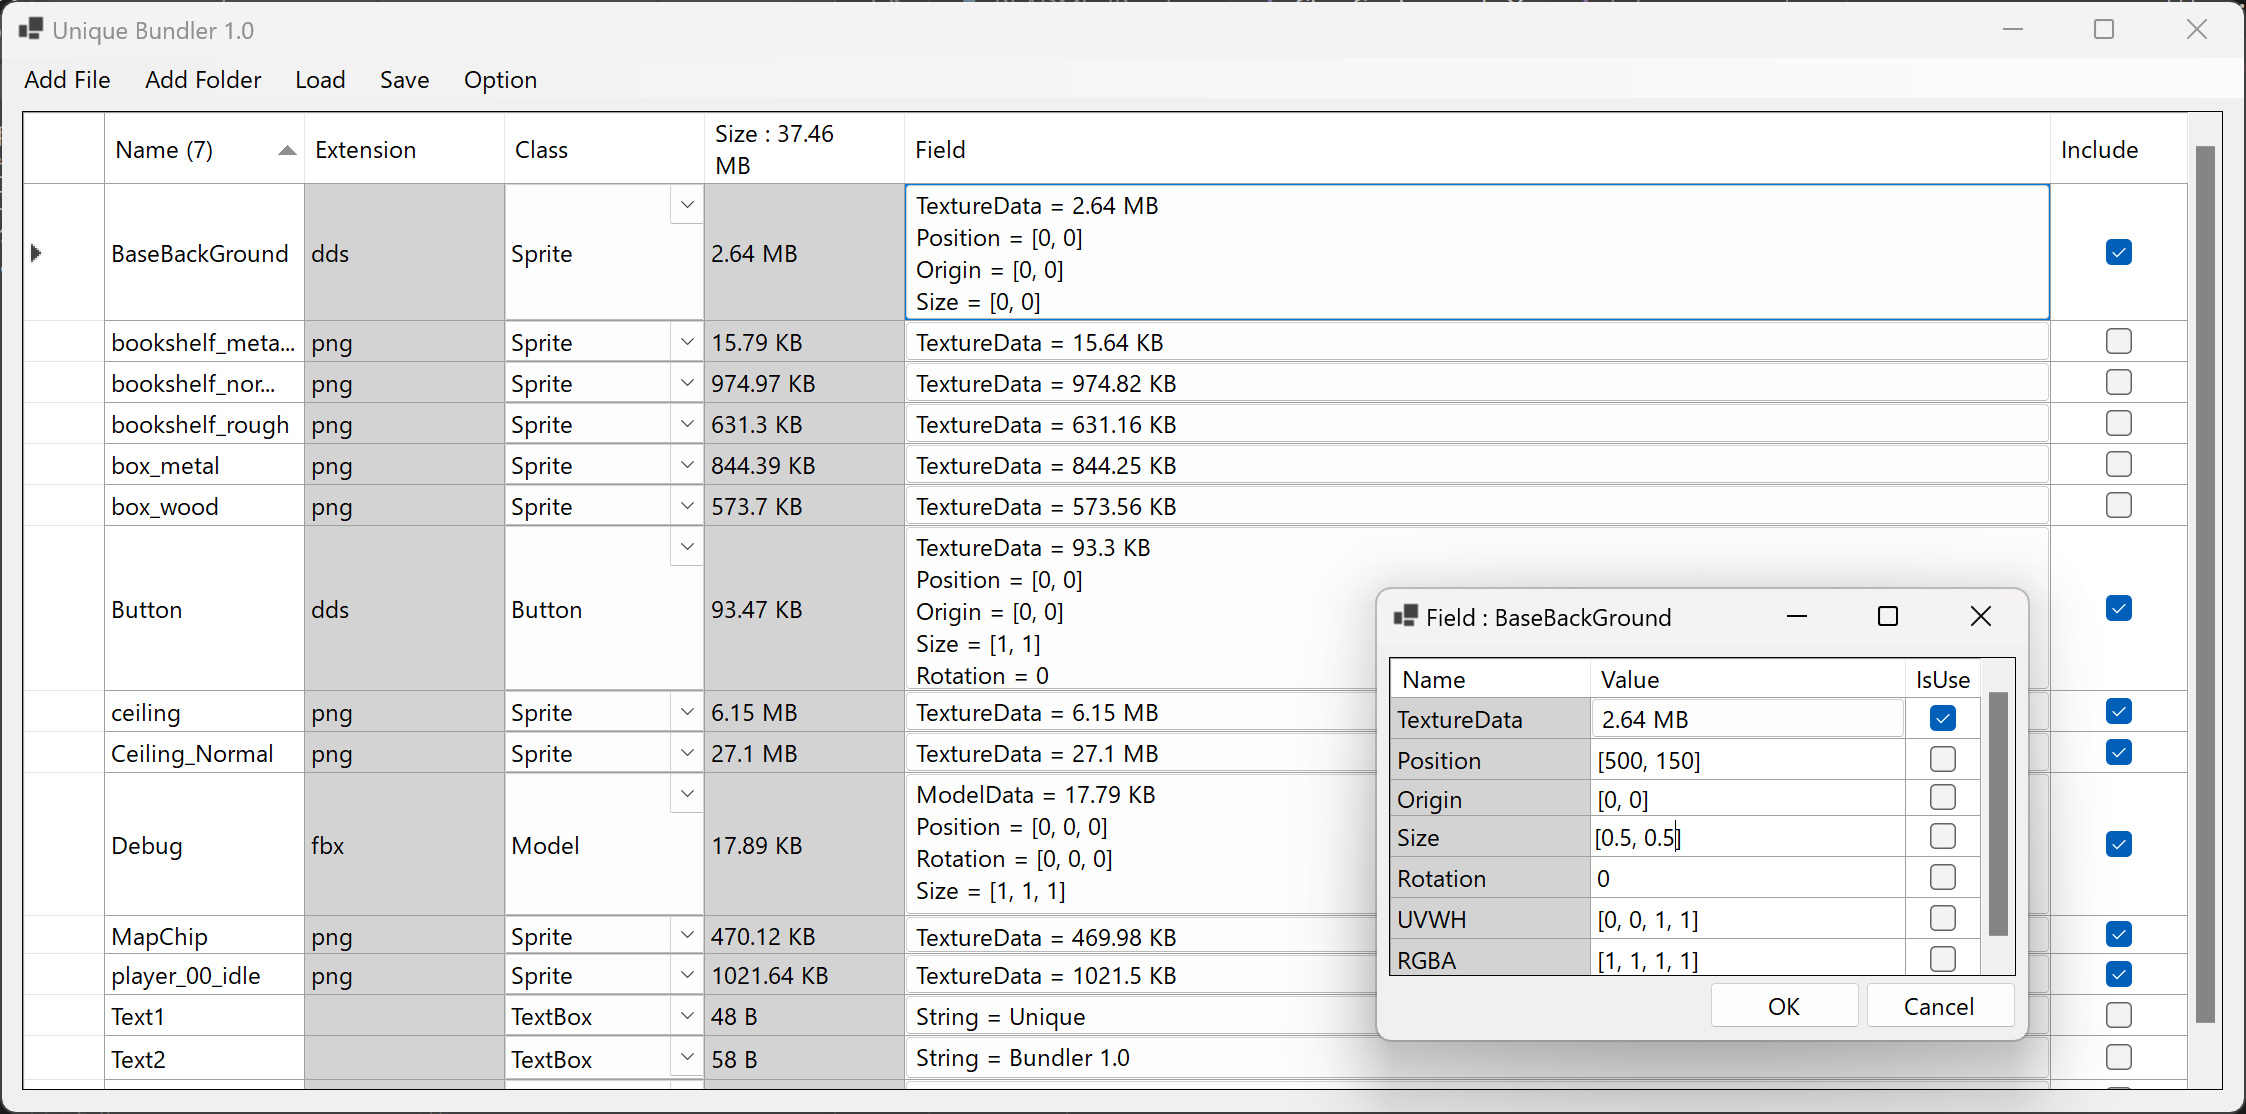
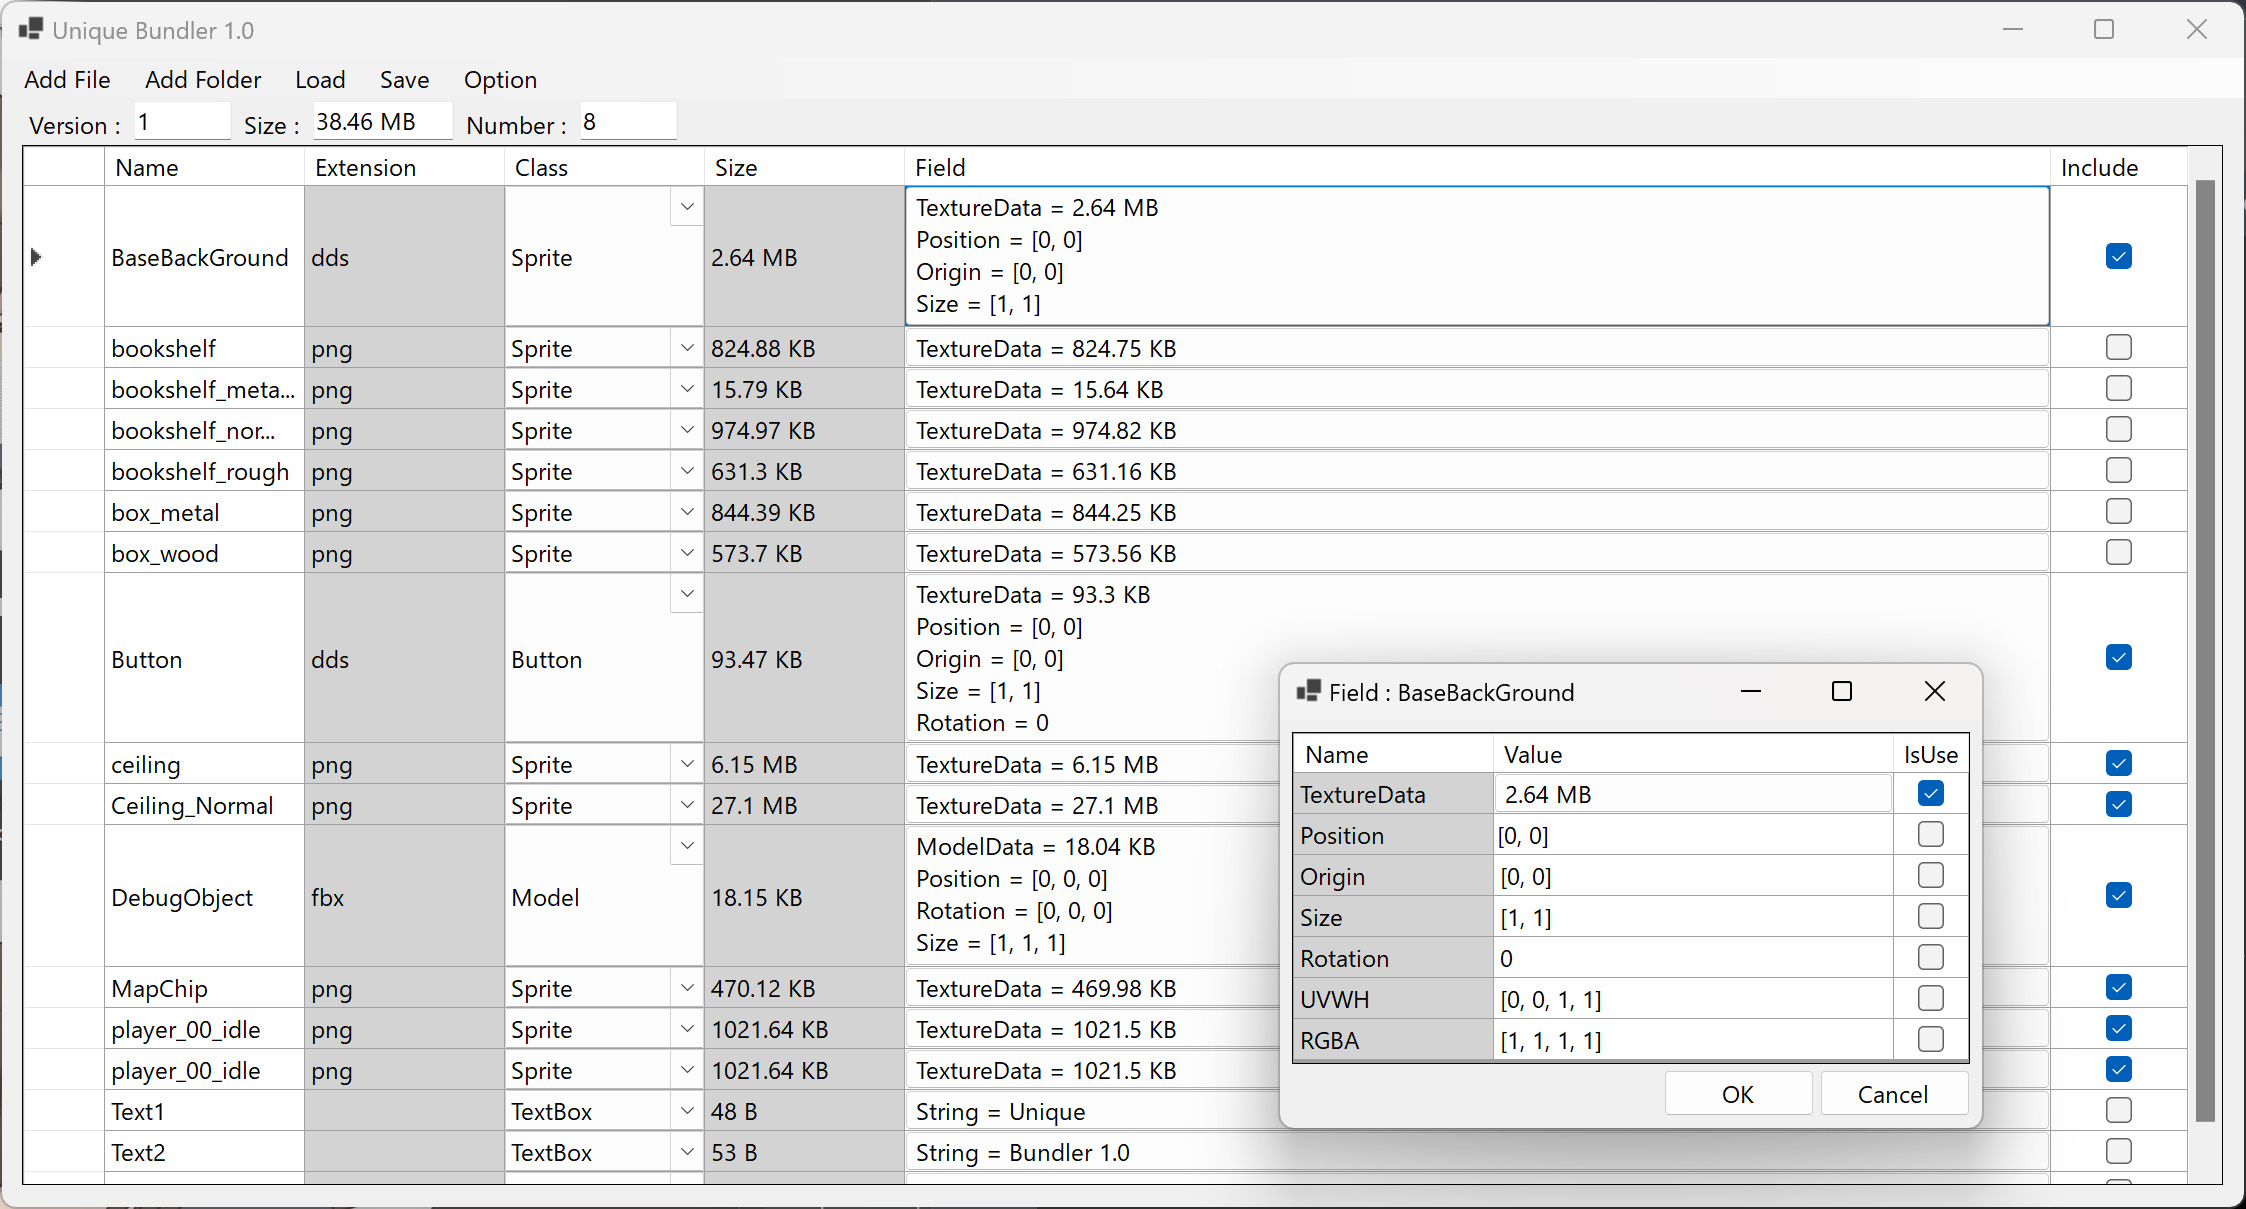
update window

diff --git a/UniqueBundler/UniqueBundler/Form1.Designer.cs b/UniqueBundler/UniqueBundler/Form1.Designer.cs
@@ -228,7 +228,7 @@
             // Number_Label
             // 
             Number_Label.AutoSize = true;
-            Number_Label.Location = new Point(415, 50);
+            Number_Label.Location = new Point(458, 50);
             Number_Label.Name = "Number_Label";
             Number_Label.Size = new Size(114, 32);
             Number_Label.TabIndex = 2;
@@ -267,13 +267,13 @@
             Size_TextBox.Location = new Point(311, 43);
             Size_TextBox.Name = "Size_TextBox";
             Size_TextBox.ReadOnly = true;
-            Size_TextBox.Size = new Size(98, 39);
+            Size_TextBox.Size = new Size(141, 39);
             Size_TextBox.TabIndex = 6;
             Size_TextBox.Text = "0 B";
             // 
             // Number_TextBox
             // 
-            Number_TextBox.Location = new Point(535, 43);
+            Number_TextBox.Location = new Point(578, 43);
             Number_TextBox.Name = "Number_TextBox";
             Number_TextBox.ReadOnly = true;
             Number_TextBox.Size = new Size(98, 39);
